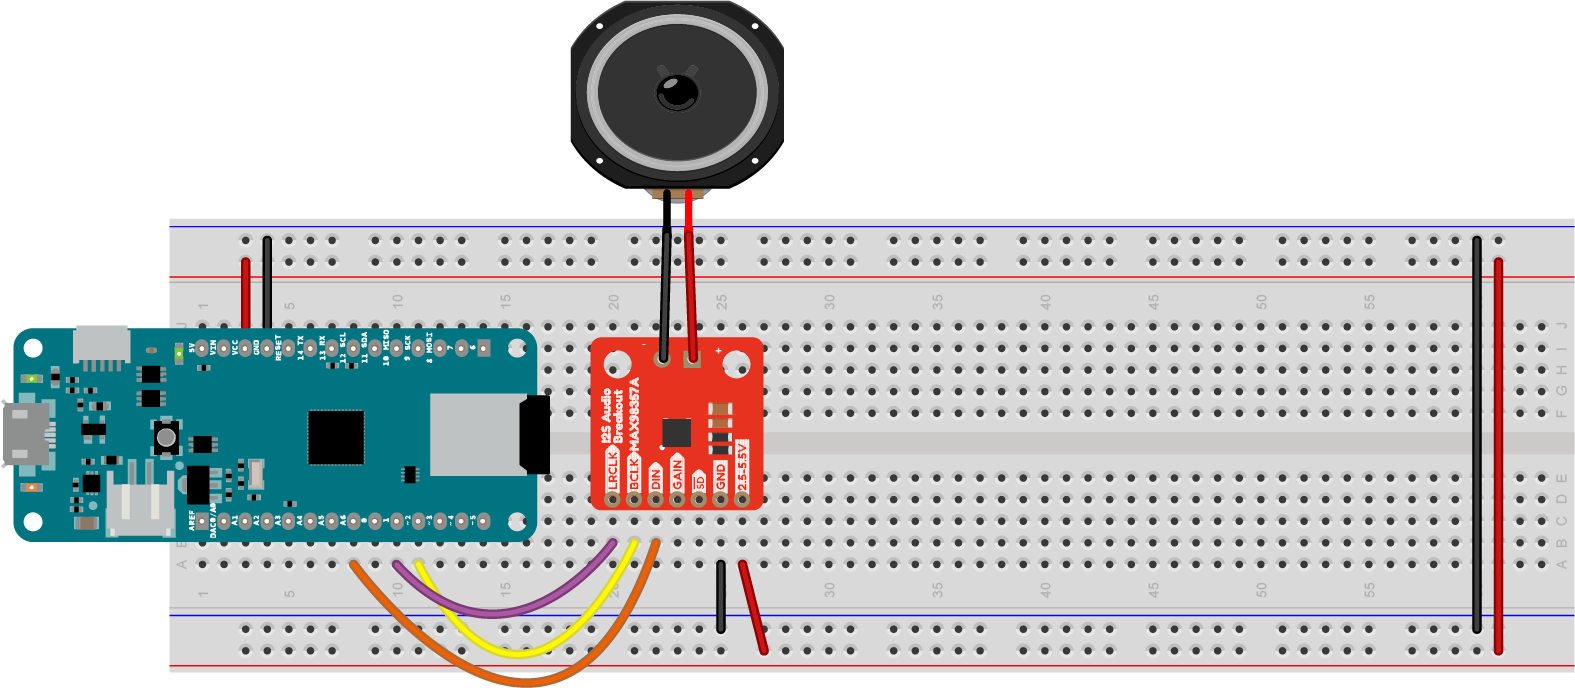
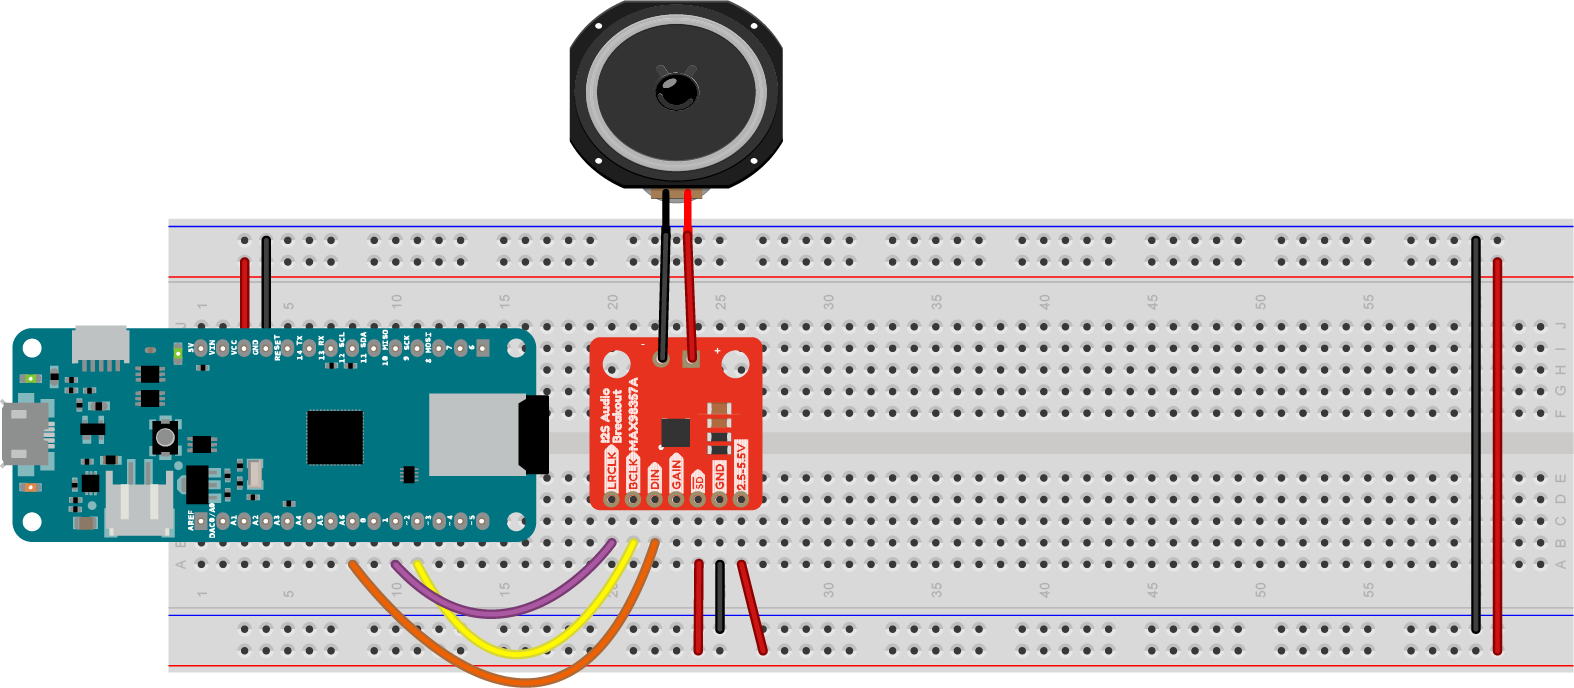
Updates to I2S circuits

diff --git a/docs/i2s.md b/docs/i2s.md
@@ -12,7 +12,7 @@ I2S is a synchronous serial bus protocol, meaning that you can connect multiple 
 
 * Serial clock (SCK) or Bit Clock (BCLK): the line that carries the clock signal
 * Frame Select (FS), also called Word Select (WS), or Left-Right Clock (LRC): determines left and right channels
-* Data (SD), also called Digital Out (DOUT) or Digital In (DIN) depending on the application: the data signal itself.
+* Data, also called Digital Out (DOUT) or Digital In (DIN) depending on the application: the data signal itself.
 
 The controlling device sends the clock signal, just like in other synchronous serial protocols like I2C and SPI. For more on the technical details, see the [I2S specification](https://www.cypress.com/file/133906/download), as explained on Cypress' site. 
 
@@ -22,7 +22,7 @@ The typical connections are as follows:
 
 * BCLK connects to pin 2 of the MKR board
 * LRC connects to pin 3 of the MKR board
-* SD connects to pin A6 of the MKR board
+* DIN/DOUT connects to pin A6 of the MKR board
 
 This wiring is shown in Figure 1 with a MSX98357 I2S amplifier, and in Figure 2 with a UDA1334 Digital-to-Analog (DAC) module, and Figure 3 with an I2S microphone. You'll see this wiring repeated the examples that follow.
 
@@ -30,7 +30,7 @@ The first two modules take an I2S signal as input and output analog audio. The m
 
 ![Figure 1. MAX98357 I2S audio amplifier connected to a MKR Zero.](img/I2S_amp_circuit_MAX98357_simple_bb.png)
 
-*Figure 1. MAX98357 I2S audio amplifier connected to a MKR Zero. The amp is mounted on the breadboard below the MKR Zero, with the pins on the left side. The pins, numbered from top left, are: LRC; BCLK; DIN; GAIN; SD; GND; Vin.  The amp's pin 1 (LRC) is connected to the MKR Zero's digital pin 3 (physical pin 11). The amp's pin 2 (BCLK) is connected to the MKR Zero's digital pin 2 (physical pin 10). The amp's pin 3 (DIN) is connected to the MKR Zero's pin A6 (physical pin 8). The amp's pin 6 (GND) is connected to the ground bus and pin 7 (Vin) is connected to the 3.3V  bus.*
+*Figure 1. MAX98357 I2S audio amplifier connected to a MKR Zero. The amp is mounted on the breadboard below the MKR Zero, with the pins on the left side. The pins, numbered from top left, are: LRC; BCLK; DIN; GAIN; SD; GND; Vin.  The amp's pin 1 (LRC) is connected to the MKR Zero's digital pin 3 (physical pin 11). The amp's pin 2 (BCLK) is connected to the MKR Zero's digital pin 2 (physical pin 10). The amp's pin 3 (DIN) is connected to the MKR Zero's pin A6 (physical pin 8). The amp's pin 5 (SD, or shutdown) is connected to the 3.3V bus. The amp's pin 6 (GND) is connected to the ground bus and pin 7 (Vin) is connected to the 3.3V  bus.*
 
 ![Figure 2. UDA1334 I2S DAC connected to a MKR Zero.](img/I2S_amp_circuit_simple_bb.png)
 
@@ -38,7 +38,7 @@ The first two modules take an I2S signal as input and output analog audio. The m
 
 ![Figure 3. INMP1441 I2S Mic connected to a MKR Zero.](img/I2S_INMP1441_mic_circuit_simple_bb.png)
 
-*Figure 3. INMP1441 I2S Mic  connected to a MKR Zero. The Mic is mounted on the breadboard below the MKR Zero. The Mic's pins, numbered in a U pattern from top left, are: L/R select; WS; SCK; SD; 3V; GND.  Pin 2 (WS) is connected to digital pin 3 on the MKR Zero (physical pin 11). Pin 3 of the mic (SCK) is connected to digital pin 2 on the MKR Zero (physical pin 10). Pin 4 of the mic (SD) is connected to pin A6 of the MKR Zero (physical pin 8). Pin 5 of the mic (3V) is connected to the 3V bus. Pin 6 of the mic (GND) is connected to the ground bus.*
+*Figure 3. INMP1441 I2S Mic connected to a MKR Zero. The Mic is mounted on the breadboard below the MKR Zero. The Mic's pins, numbered in a U pattern from top left, are: L/R select; WS; SCK; SD; 3V; GND.  Pin 2 (WS) is connected to digital pin 3 on the MKR Zero (physical pin 11). Pin 3 of the mic (SCK) is connected to digital pin 2 on the MKR Zero (physical pin 10). Pin 4 of the mic (SD) is connected to pin A6 of the MKR Zero (physical pin 8). Pin 5 of the mic (3V) is connected to the 3V bus. Pin 6 of the mic (GND) is connected to the ground bus.*
 
 ## Examples
 
